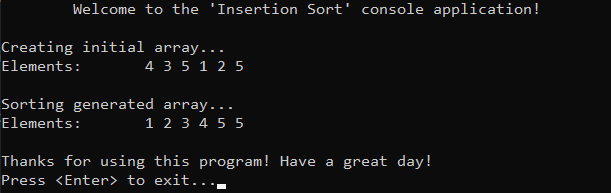
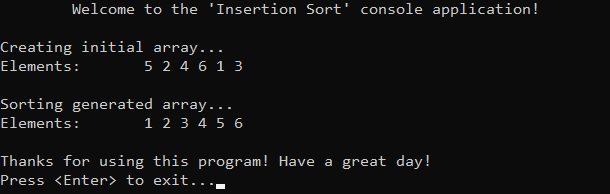
Update in 'Insertion Sort': new data example.

diff --git a/Algorithms/Sorting/InsertionSort/src/Main.cpp b/Algorithms/Sorting/InsertionSort/src/Main.cpp
@@ -22,7 +22,7 @@ int main()
 
 	// Create initial array
 	std::cout << "\nCreating initial array...\n";
-	int arr[] = { 4, 3, 5, 1, 2, 5 };
+	int arr[] = { 5, 2, 4, 6, 1, 3 };
 	int size = sizeof(arr) / sizeof(arr[1]);
 	printArray(arr, size);
 
